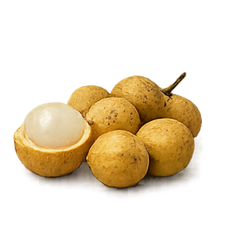
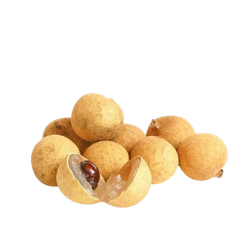
Add files via upload

Changed region(s): [[0.028, 0.28, 0.924, 0.84]]

diff --git a/index.html b/index.html
@@ -109,7 +109,7 @@
                     Option 1
                 </button>
 
-                <div id="fruit-target" class="absolute left-1/2 top-1/2 transform -translate-x-1/2 -translate-y-1/2 w-[160px] h-[160px] md:w-[320px] md:h-[320px] anim-bounce z-10 pointer-events-none drop-shadow-[0_15px_15px_rgba(0,0,0,0.4)] flex justify-center items-center bg-white/70 rounded-[40px] border-4 border-white backdrop-blur-sm p-2 md:p-4">
+                <div id="fruit-target" class="absolute left-1/2 top-2 sm:top-6 md:top-10 transform -translate-x-1/2 w-[160px] h-[160px] md:w-[320px] md:h-[320px] anim-bounce z-10 pointer-events-none drop-shadow-[0_15px_15px_rgba(0,0,0,0.4)] flex justify-center items-center bg-white/70 rounded-[40px] border-4 border-white backdrop-blur-sm p-2 md:p-4">
                     </div>
 
                 <button id="btn-opt-right" class="hand-interact pointer-events-auto jelly-btn bg-sky-400 text-white font-bold text-xl sm:text-2xl md:text-5xl py-3 px-2 sm:px-6 md:px-10 w-[40%] md:max-w-[35%] z-20 leading-tight flex items-center justify-center text-center shadow-lg">
@@ -243,12 +243,11 @@
             const btnLeft = document.getElementById('btn-opt-left');
             const btnRight = document.getElementById('btn-opt-right');
 
-            // Reset Styles
-            fruitEl.className = 'absolute left-1/2 top-1/2 transform -translate-x-1/2 -translate-y-1/2 w-[160px] h-[160px] md:w-[320px] md:h-[320px] anim-bounce z-10 pointer-events-none drop-shadow-[0_15px_15px_rgba(0,0,0,0.4)] flex justify-center items-center bg-white/70 rounded-[40px] border-4 border-white backdrop-blur-sm p-2 md:p-4';
+            // Reset Styles และตั้งตำแหน่งกล่องผลไม้ให้อยู่ด้านบน
+            fruitEl.className = 'absolute left-1/2 top-2 sm:top-6 md:top-10 transform -translate-x-1/2 w-[160px] h-[160px] md:w-[320px] md:h-[320px] anim-bounce z-10 pointer-events-none drop-shadow-[0_15px_15px_rgba(0,0,0,0.4)] flex justify-center items-center bg-white/70 rounded-[40px] border-4 border-white backdrop-blur-sm p-2 md:p-4';
             btnLeft.className = 'hand-interact pointer-events-auto jelly-btn bg-pink-400 text-white font-bold text-xl sm:text-2xl md:text-5xl py-3 px-2 sm:px-6 md:px-10 w-[40%] md:max-w-[35%] z-20 leading-tight flex items-center justify-center text-center shadow-lg';
             btnRight.className = 'hand-interact pointer-events-auto jelly-btn bg-purple-400 text-white font-bold text-xl sm:text-2xl md:text-5xl py-3 px-2 sm:px-6 md:px-10 w-[40%] md:max-w-[35%] z-20 leading-tight flex items-center justify-center text-center shadow-lg';
             
-            // ใส่รูปจากไฟล์ Local พร้อมคำสั่งดักข้อผิดพลาดเผื่อหาไฟล์ไม่เจอ
             fruitEl.innerHTML = `<img src="${q.answer.imageUrl}" alt="${q.answer.name}" class="w-full h-full object-contain rounded-[25px] pointer-events-none" onerror="this.src='https://placehold.co/400x400/ffcccc/dc2626?text=Image+Missing'"/>`;
             btnLeft.innerText = q.options[0].name;
             btnRight.innerText = q.options[1].name;
@@ -364,7 +363,7 @@
 
         let hoverTarget = null;
         let hoverStartTime = 0;
-        const HOVER_DURATION = 1200; // 1.2 วินาทีชี้ค้างเพื่อคลิกอัตโนมัติ
+        const HOVER_DURATION = 1200;
         const hoverRing = document.getElementById('hover-ring');
         const RING_MAX_DASH = 226;
 